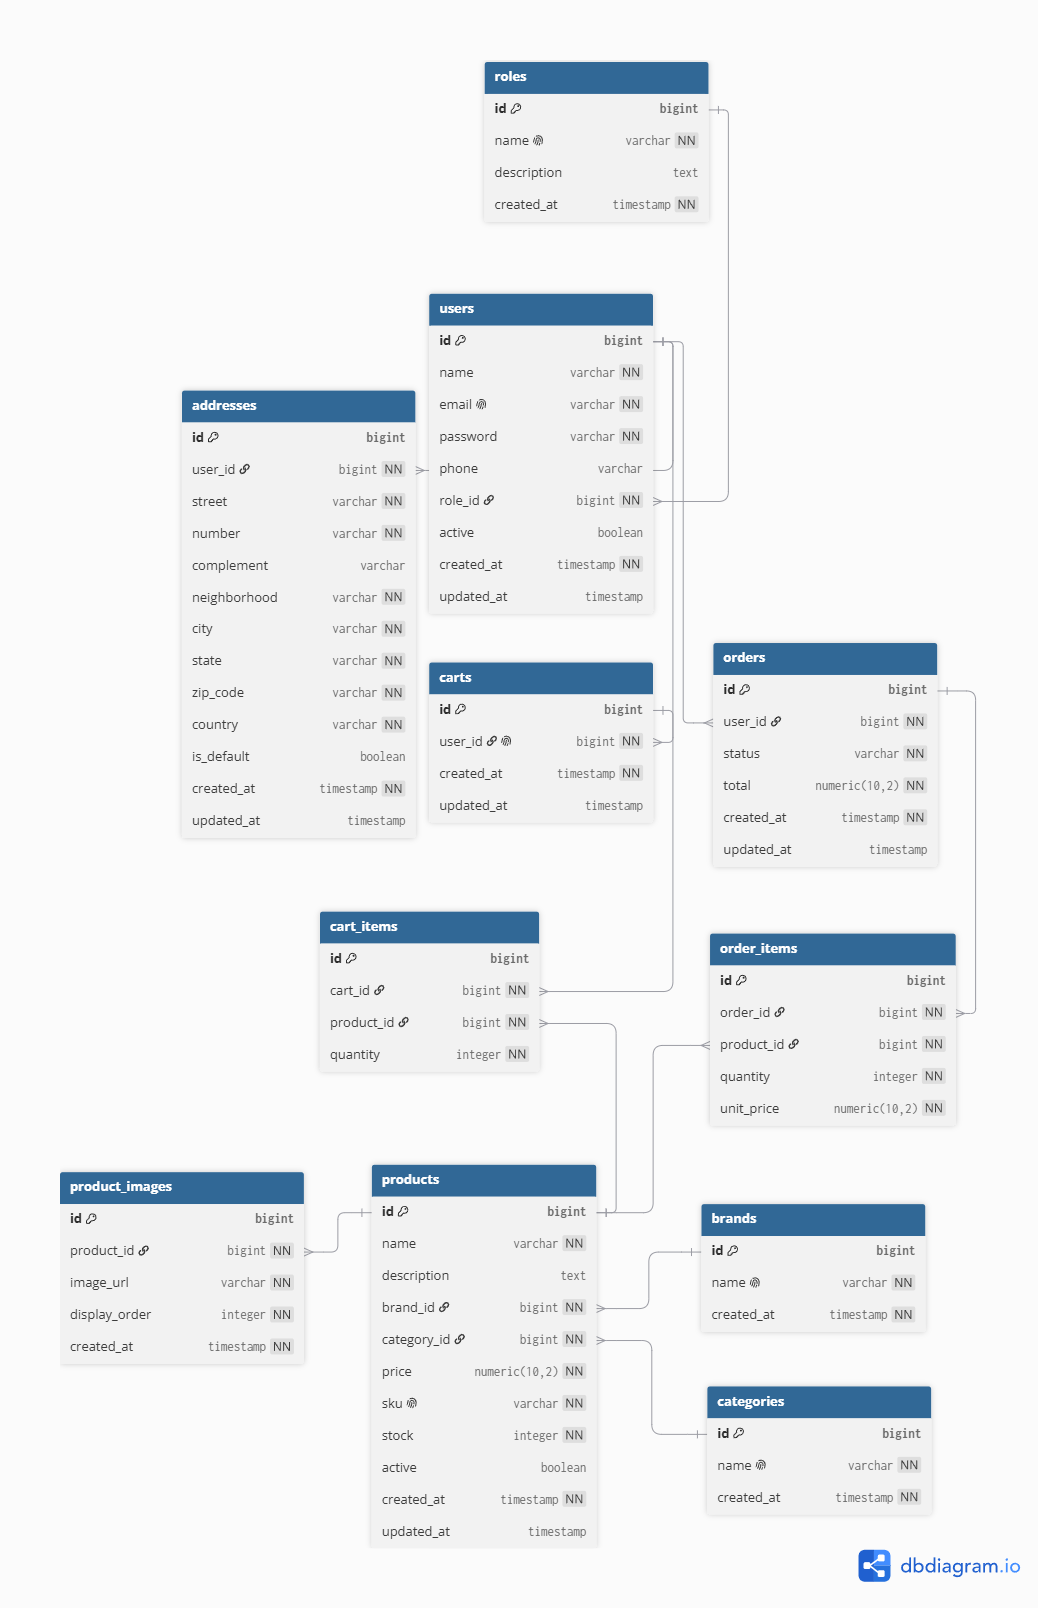
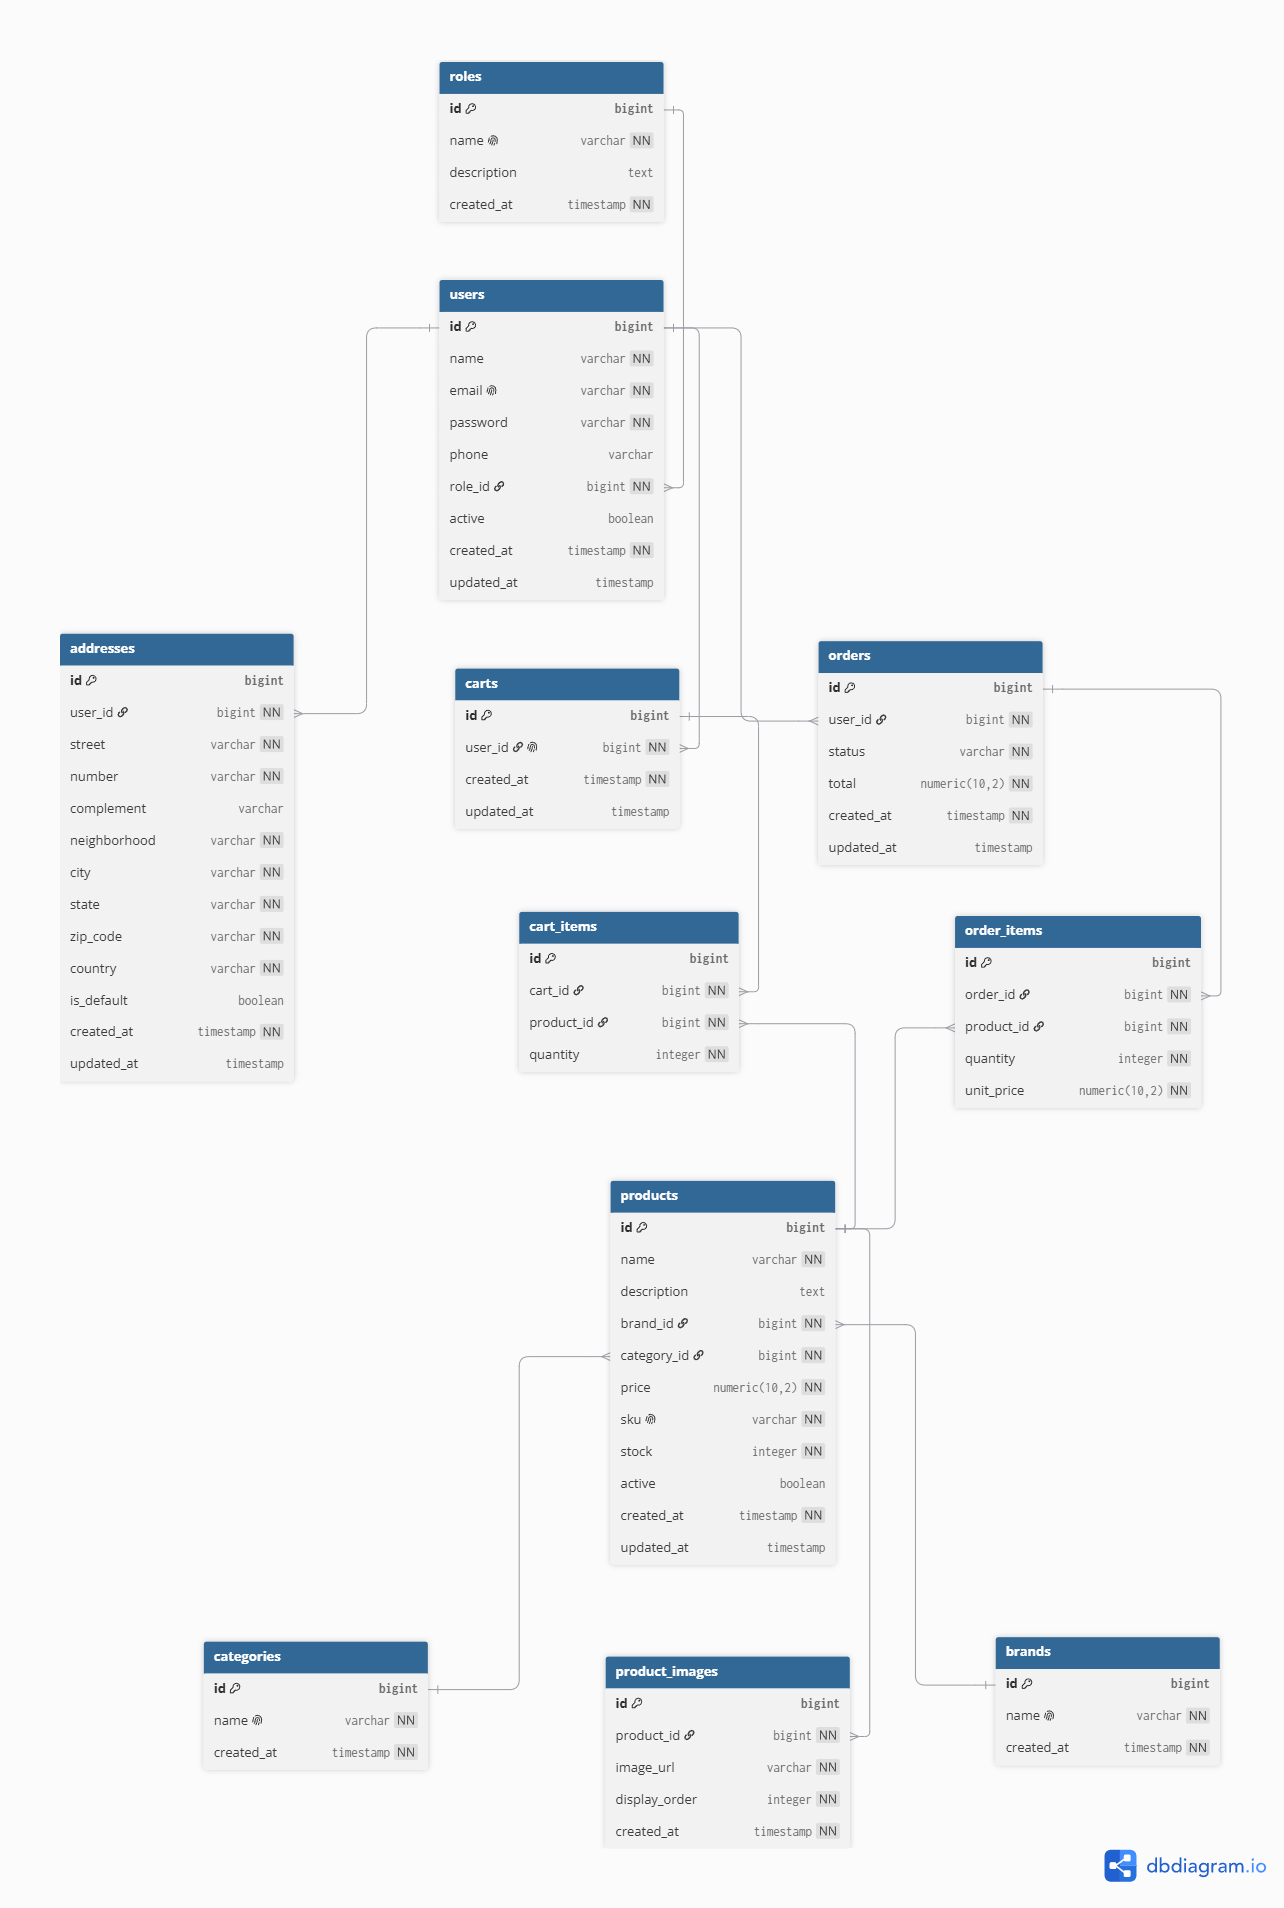
Update the README.md

diff --git a/README.MD b/README.MD
@@ -1,0 +1,50 @@
+# TechStore
+
+A Full Stack E-commercece project built to study modern backed and frontend development.
+
+## Technologies
+
+- Java 21
+- Spring Boot
+- Spring Data JPA
+- PostgreeSql
+- Docker
+- React
+- Fresh
+- Tailwind CSS
+
+
+---
+
+
+## Database Architecture
+
+The project follows a normalized relational datavase model.
+
+![Database Diagram](docs/database-diagram.png)
+
+---
+
+## Main Entities
+
+- Users
+- Roles 
+- Products
+- Product Images
+- Categories
+- Brands
+- Shopping Cart
+- Orders
+- Addresses
+
+---
+
+## Planned Features
+
+- User Authentication (JWT)
+- Product Catalog
+- Product Search
+- Shopping Cart
+- Checkout
+- Order History
+- Admin Dashboard